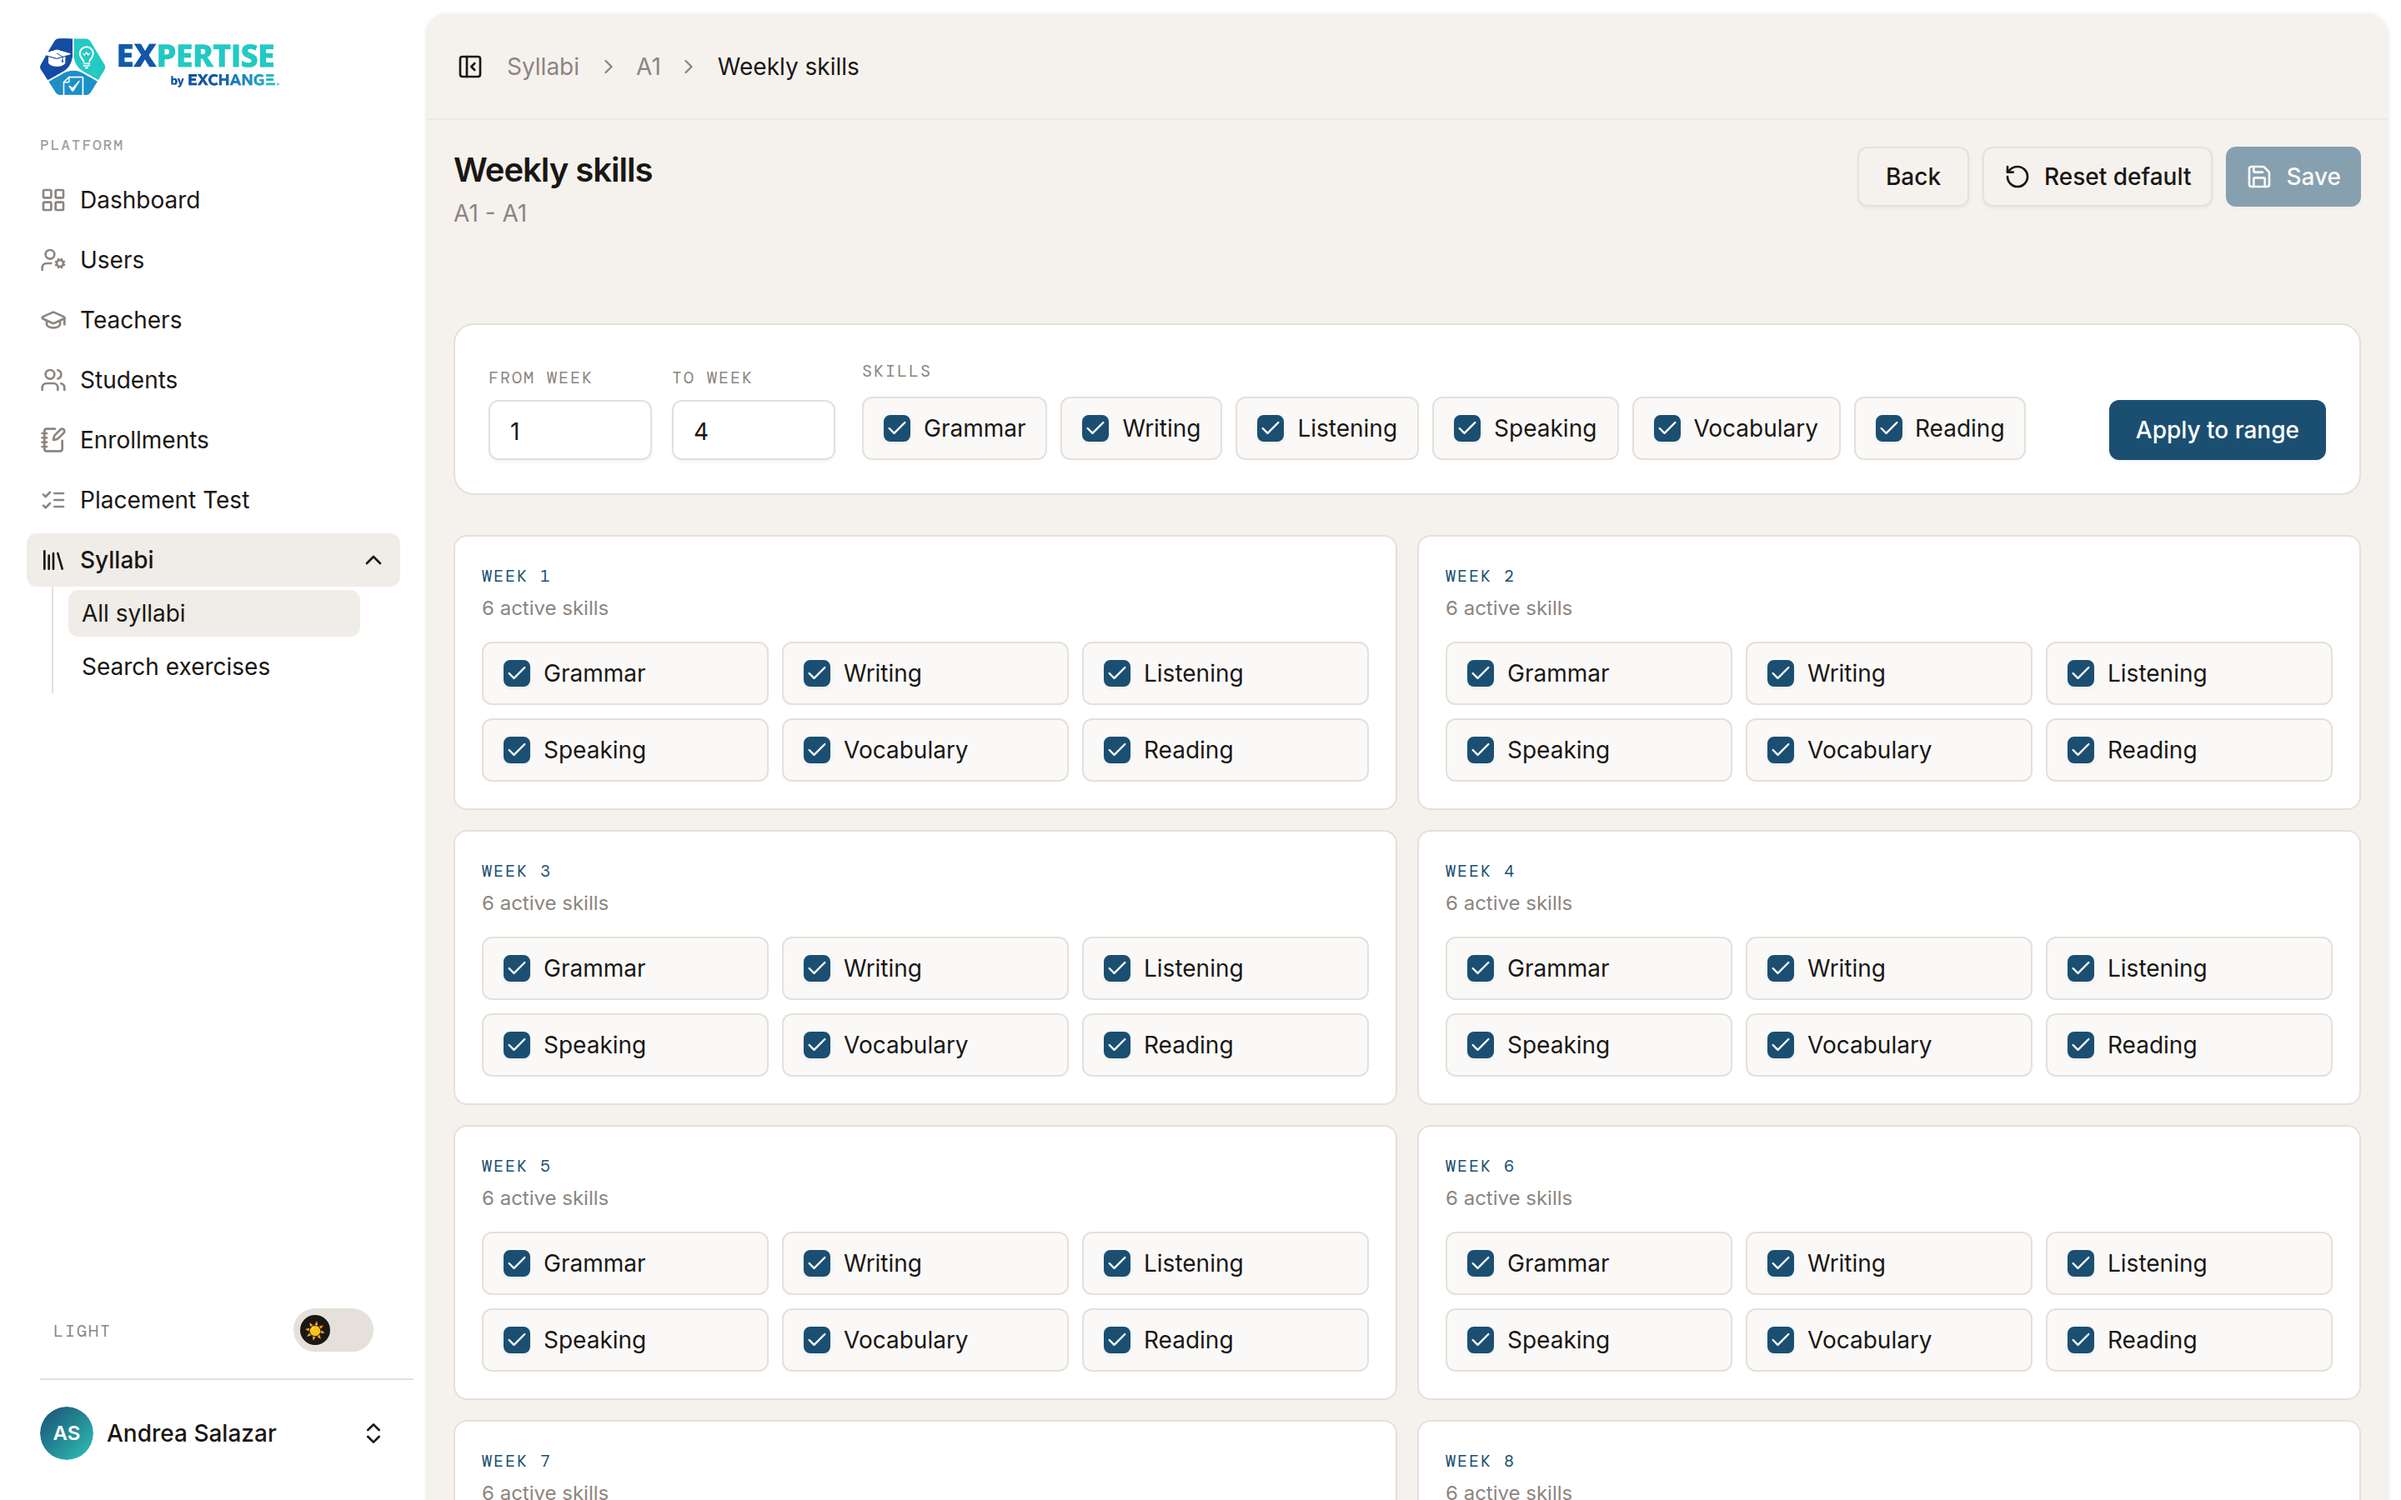
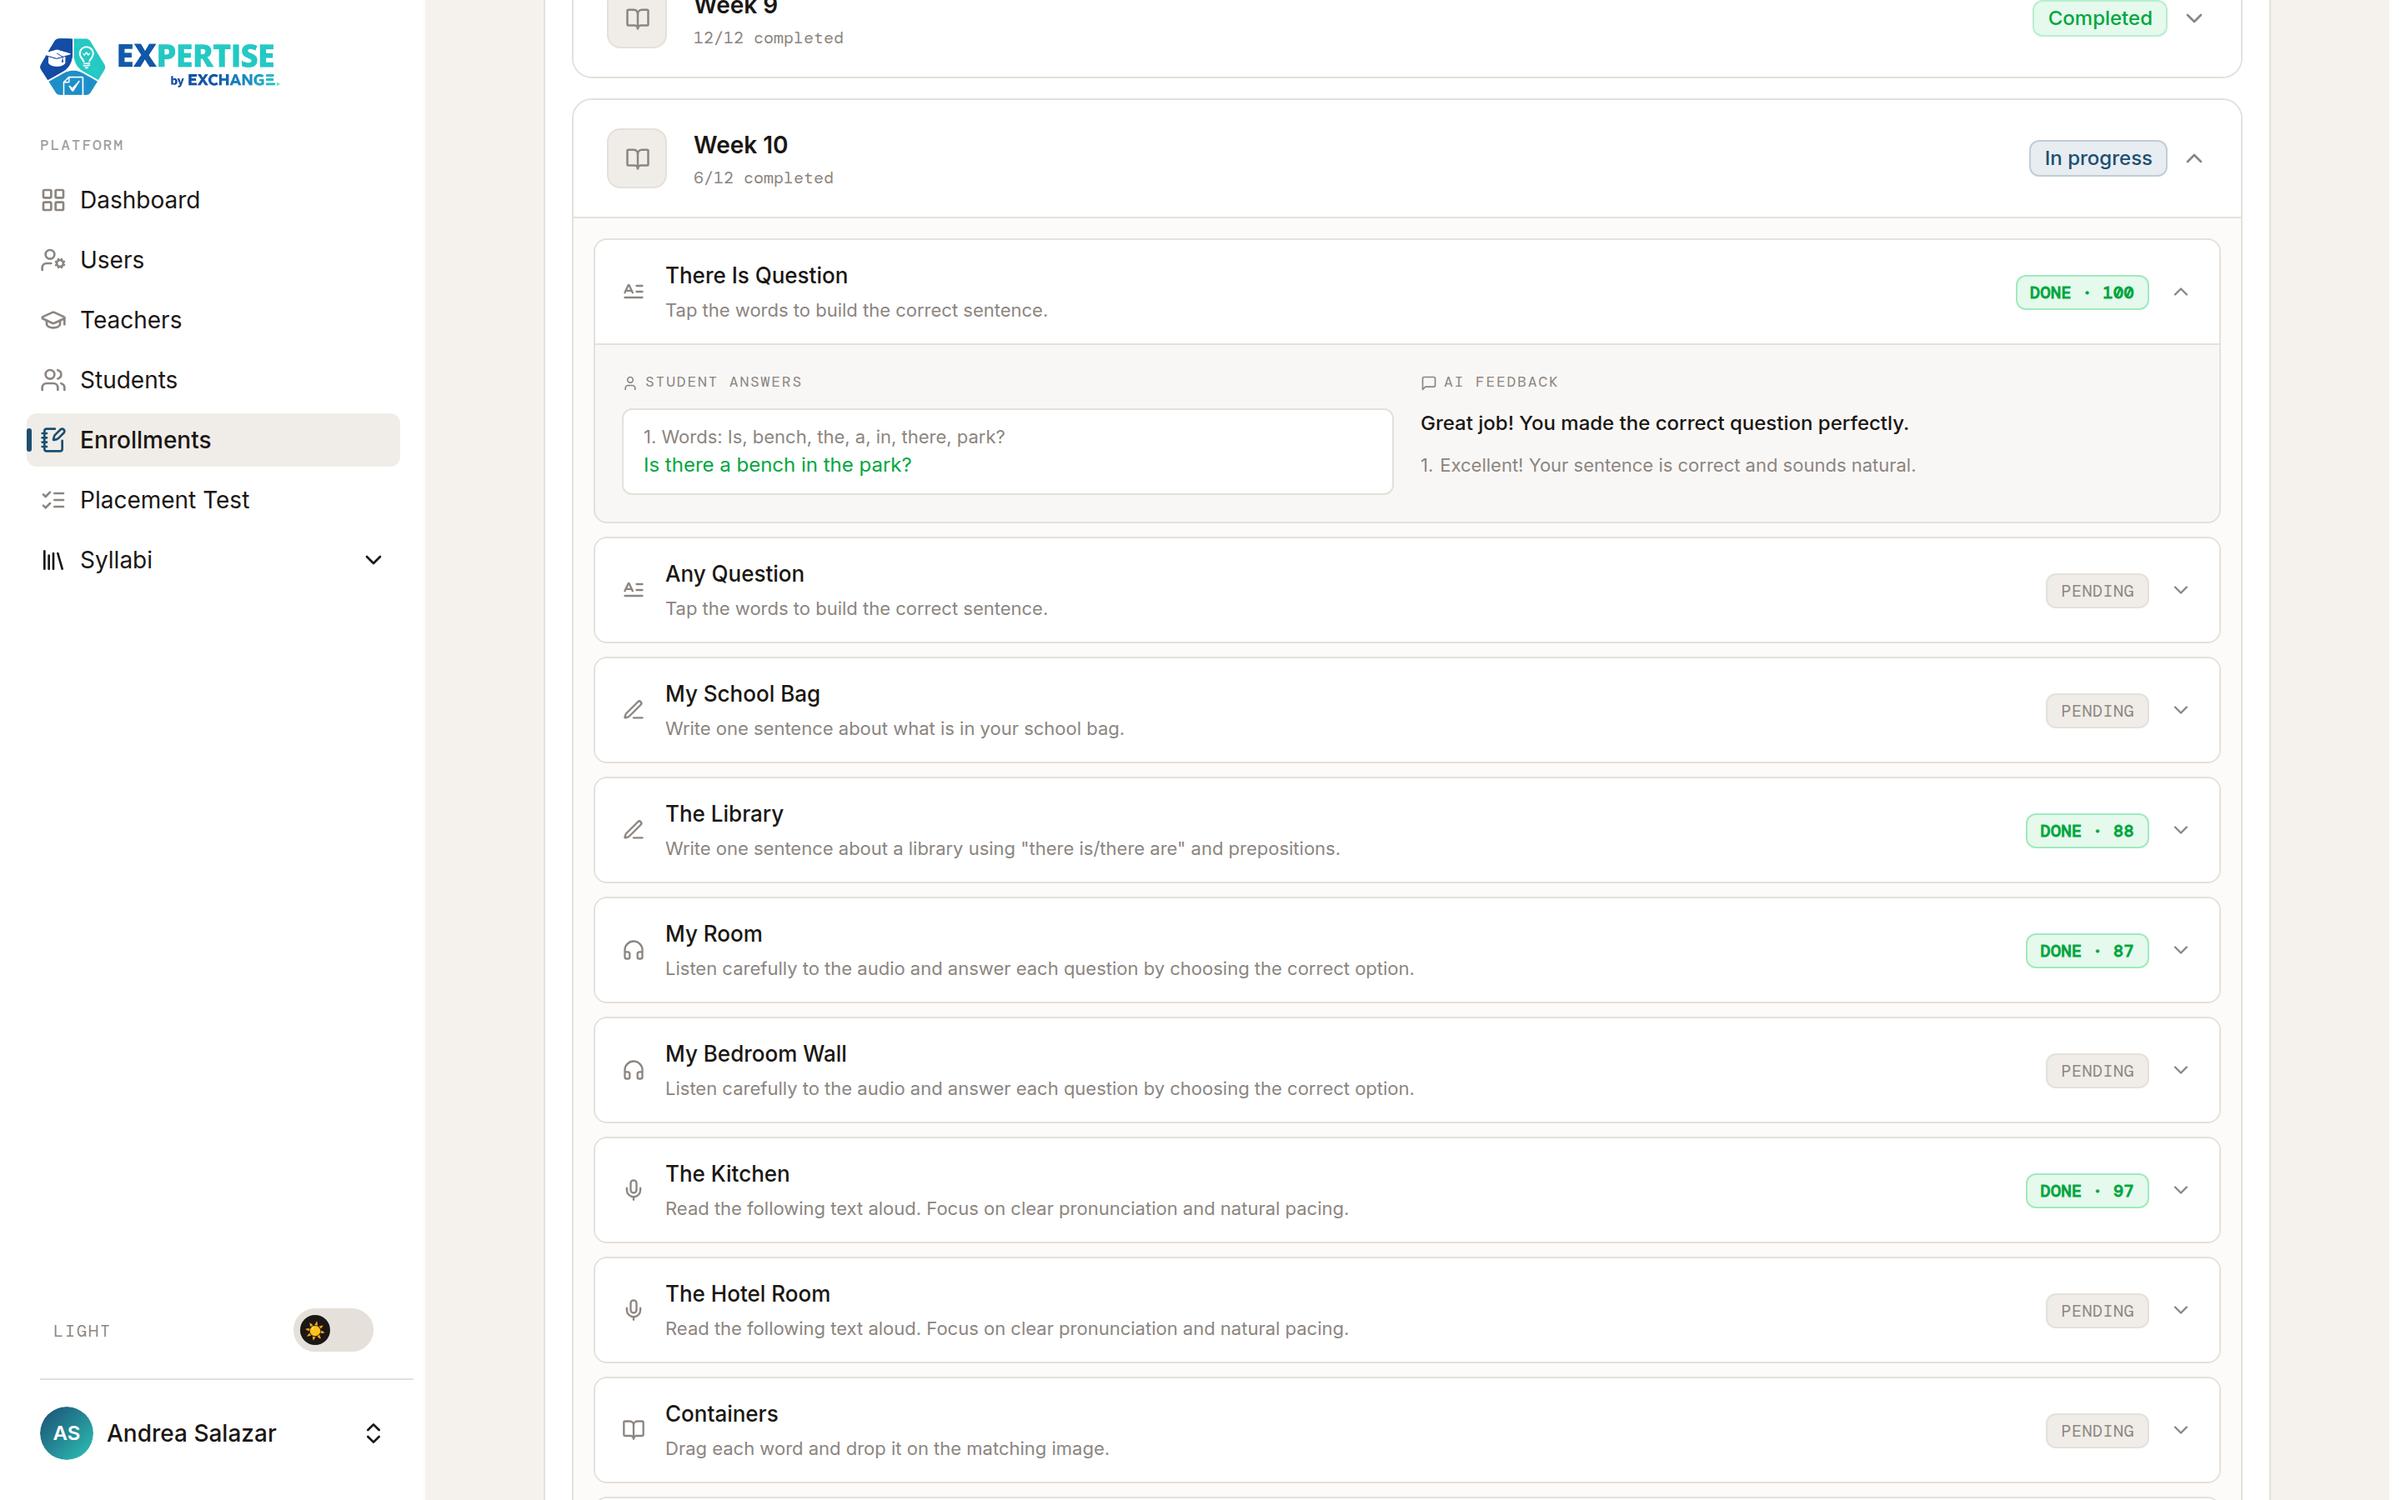
Add Expertise Admin project and rename Expertise English (#5)

diff --git a/data/projects.ts b/data/projects.ts
@@ -58,7 +58,7 @@ Desarrollé un sistema completo utilizando Laravel y Filament que permite gestio
   {
     id: "5",
     slug: "english-app",
-    title: "Expertise",
+    title: "Expertise English",
     shortDescription:
       "Plataforma de aprendizaje de inglés con plan semanal por niveles, test de ubicación y ejercicios calificados con IA.",
     longDescription: `Expertise by Exchange es una plataforma de aprendizaje de inglés. Necesitaban acompañar a cada estudiante con un plan de estudio estructurado y retroalimentación inmediata, sin depender de que un docente revise cada ejercicio.
@@ -83,6 +83,33 @@ El resultado es una experiencia de aprendizaje constante y medible: los estudian
     },
     links: {
       live: "https://english-app.laravel.cloud",
+    },
+  },
+  {
+    id: "6",
+    slug: "expertise-admin",
+    title: "Expertise Admin",
+    shortDescription:
+      "Sistema administrativo para academia de inglés: calendario de clases, asistencia, renovaciones y reportes mensuales.",
+    longDescription: `Expertise es una academia de inglés con clases individuales y grupales, presenciales y en línea. Necesitaban una sola herramienta para que administradores y profesores coordinaran horarios, asistencias y reportes.
+
+Desarrollé un sistema completo donde el equipo administrativo agenda clases en un calendario semanal y diario por profesor y modalidad, registra la asistencia de cada estudiante y programa clases de recuperación. Un módulo de renovaciones detecta a los estudiantes cuya última clase está próxima y permite renovar su horario respetando los grupos de cada profesor.
+
+El proyecto se construyó con Vue.js e Inertia.js sobre Laravel. Los profesores tienen su propio panel con sus próximas clases y redactan reportes mensuales de cada estudiante; los administradores los revisan con anotaciones sobre el texto, solicitan correcciones o los aprueban, y el reporte se genera en PDF y se envía a administración por email.
+
+El resultado es una operación académica ordenada: horarios sin choques, asistencia al día y reportes revisados a tiempo para cada estudiante.`,
+    category: "Web Application",
+    technologies: ["Laravel", "Vue.js", "Inertia.js", "TailwindCSS", "MySQL"],
+    featured: true,
+    images: {
+      thumbnail: "/assets/images/projects/expertise-admin/expertise-admin-hero.png",
+      hero: "/assets/images/projects/expertise-admin/expertise-admin-hero.png",
+      gallery: [
+        "/assets/images/projects/expertise-admin/expertise-admin-gallery-1.png",
+        "/assets/images/projects/expertise-admin/expertise-admin-gallery-2.png",
+        "/assets/images/projects/expertise-admin/expertise-admin-gallery-3.png",
+        "/assets/images/projects/expertise-admin/expertise-admin-gallery-4.png",
+      ],
     },
   },
   {

diff --git a/README.md b/README.md
@@ -79,13 +79,23 @@ Sistema administrativo completo para programas de intercambio estudiantil intern
 
 ---
 
-### 🔷 [Expertise](https://english-app.laravel.cloud)
+### 🔷 [Expertise English](https://english-app.laravel.cloud)
 
 Plataforma de aprendizaje de inglés con plan semanal por niveles, test de ubicación y ejercicios calificados con IA.
 
 **Tech Stack:** Laravel · Inertia.js · React · TailwindCSS · OpenAI
 
 **Features:** Test de ubicación, plan semanal de seis habilidades, calificación y feedback con IA, seguimiento de progreso y rachas, gestión de matrículas y syllabus.
+
+---
+
+### 🔷 Expertise Admin
+
+Sistema administrativo para academia de inglés: calendario de clases, asistencia, renovaciones y reportes mensuales.
+
+**Tech Stack:** Laravel · Vue.js · Inertia.js · TailwindCSS · MySQL
+
+**Features:** Calendario semanal y diario por profesor, registro de asistencia y recuperaciones, renovaciones de clases, reportes mensuales con anotaciones, aprobación y PDF.
 
 ---
 
